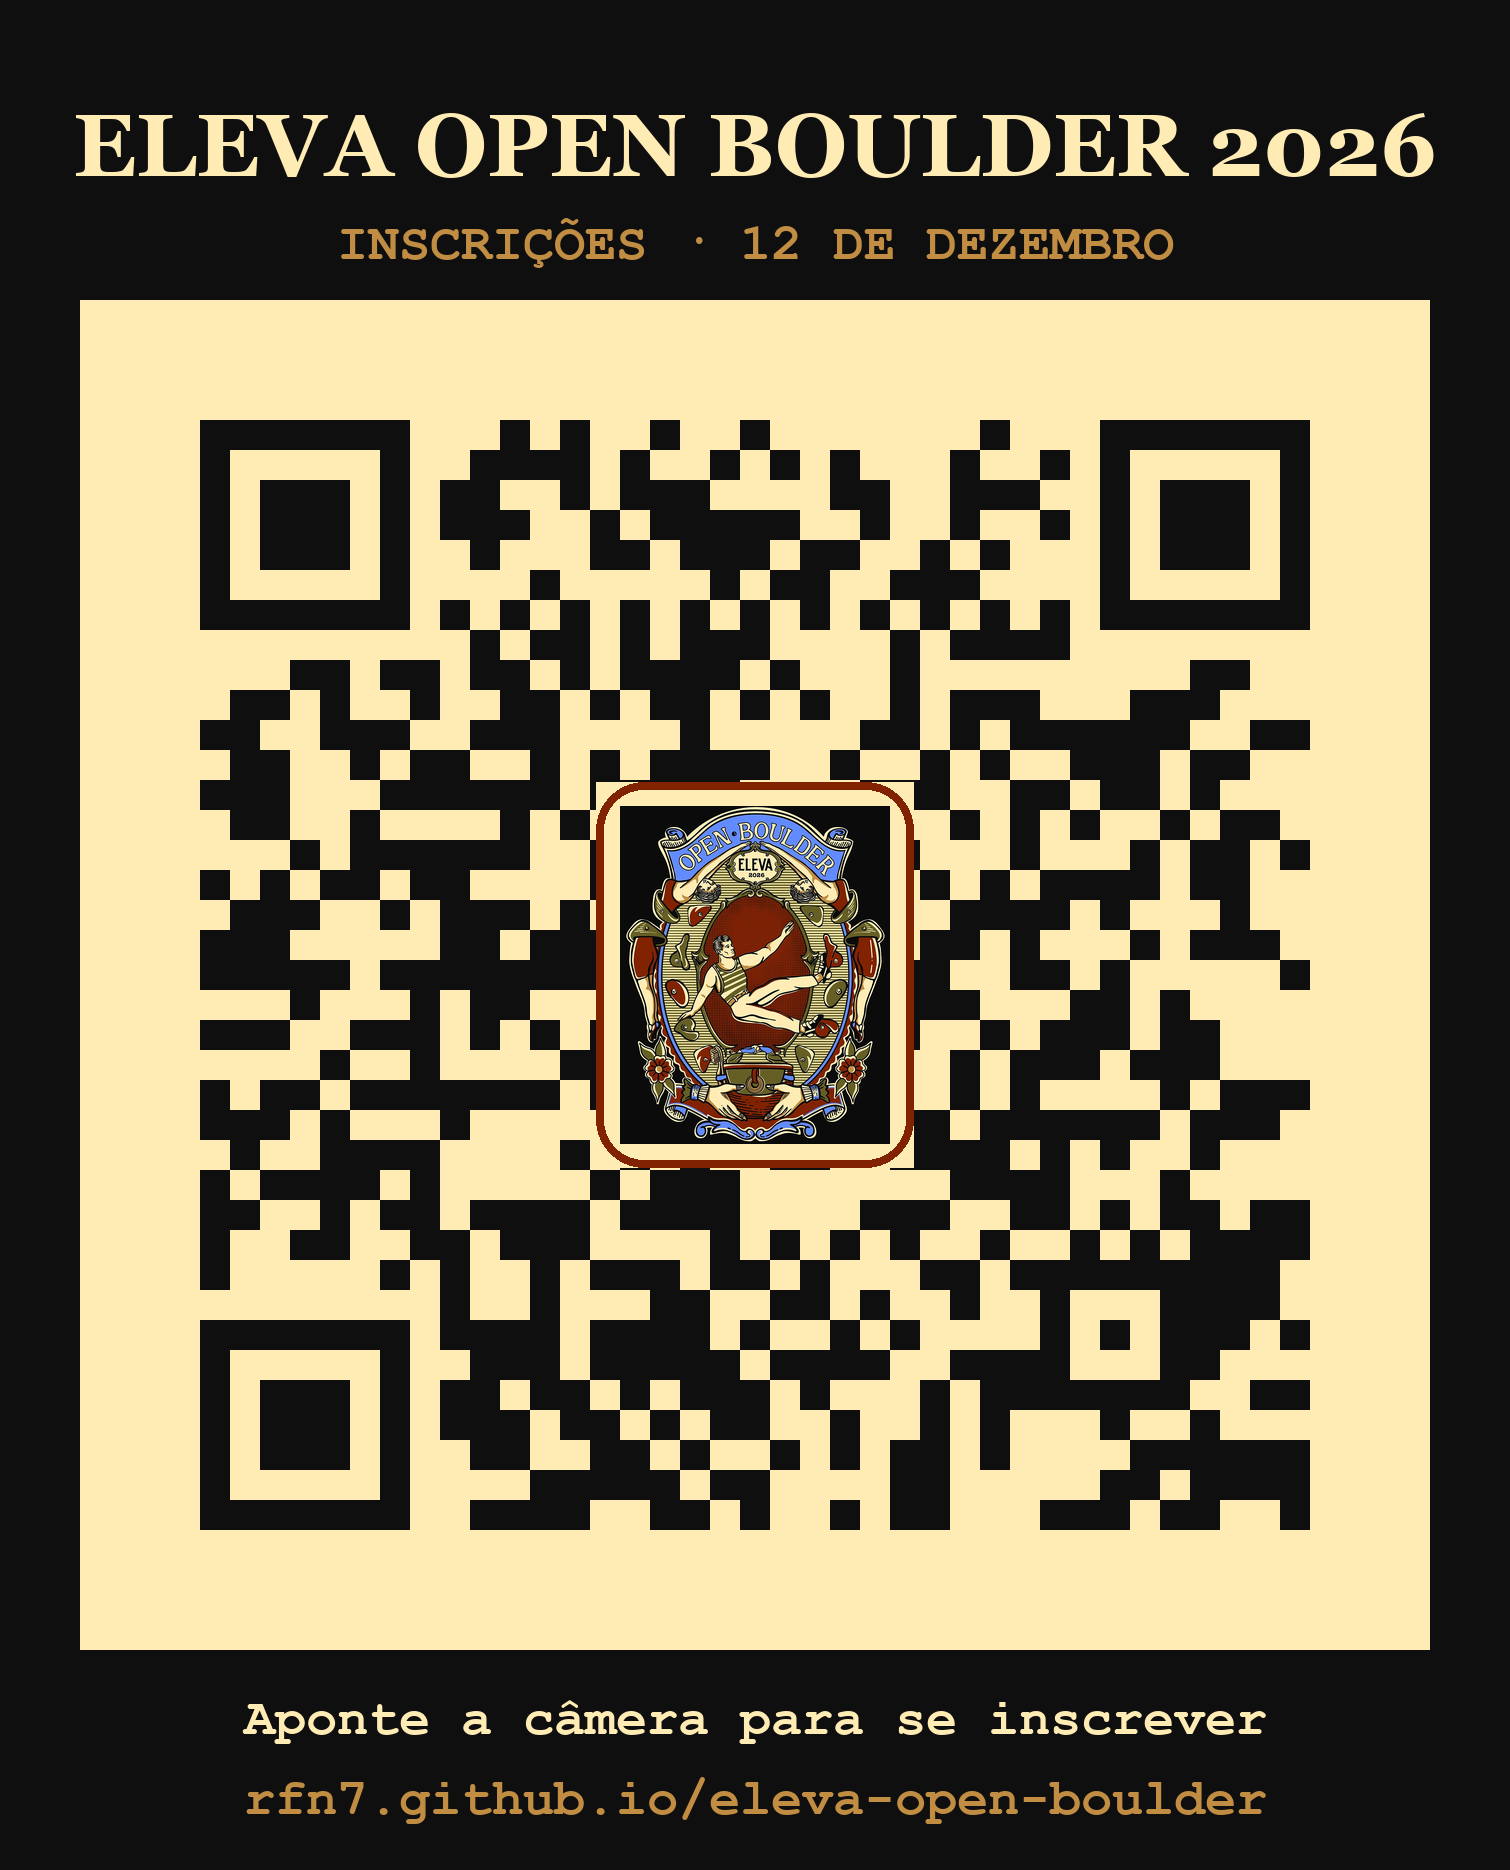
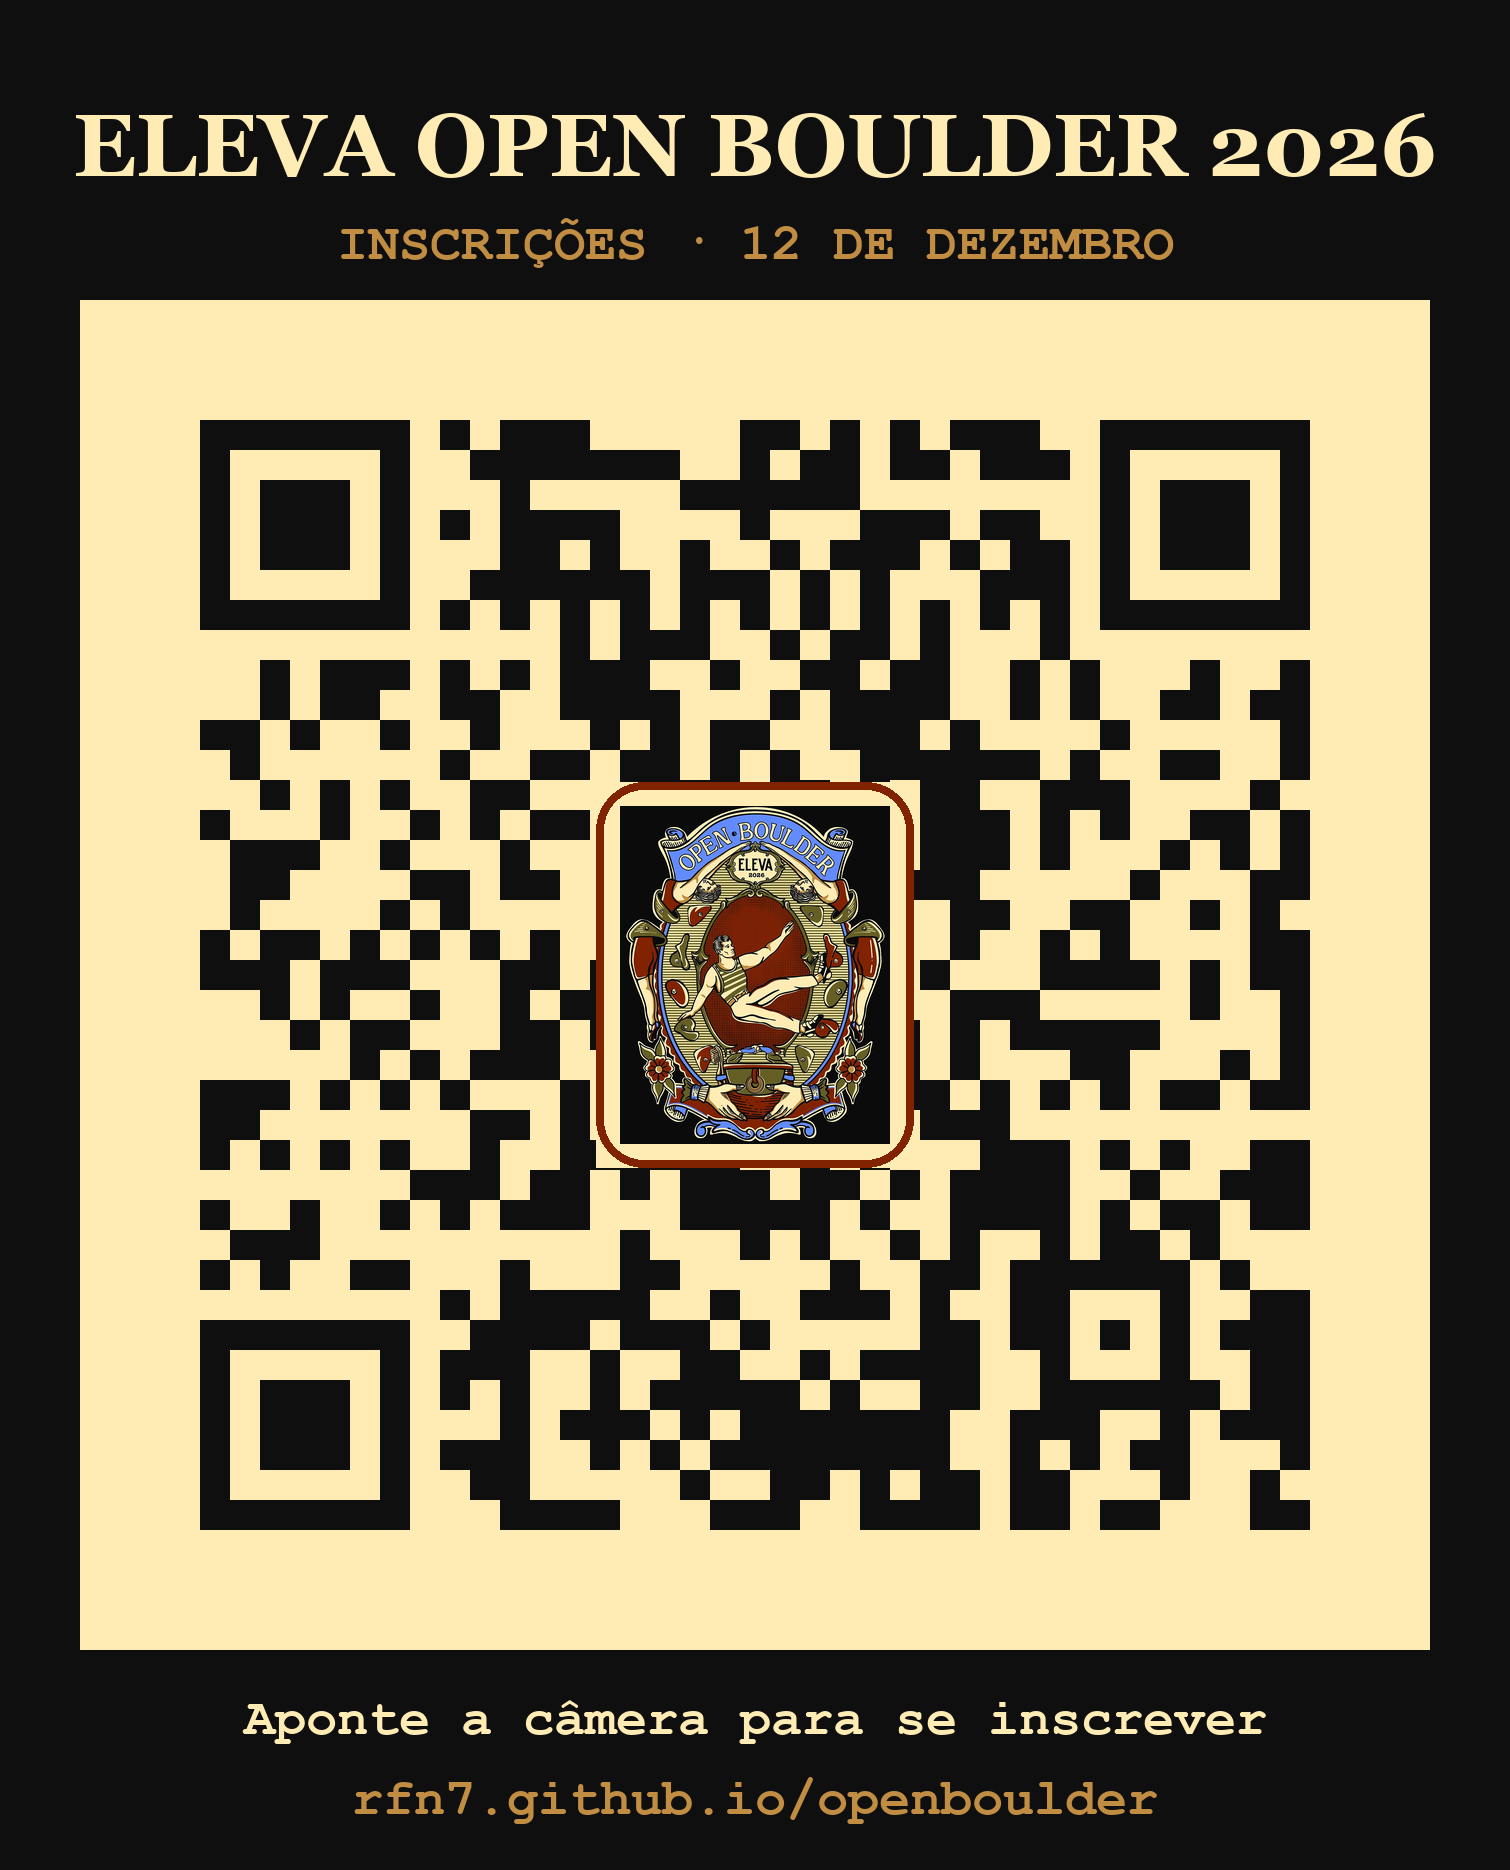
Novo endereço rfn7.github.io/openboulder e QR Code atualizado

Changed region(s): [[0.1245, 0.2171, 0.8715, 0.8374], [0.1868, 0.9305, 0.8404, 0.9925]]

diff --git a/index.html b/index.html
@@ -8,7 +8,7 @@
   <meta name="description" content="Eleva Open Boulder 2026 · Climb das Antigas. 12 de dezembro na Eleva Academia de Escalada, SOF Sul — Brasília. Inscrições, ingressos por lote e loja oficial.">
   <meta property="og:title" content="Eleva Open Boulder 2026 — Climb das Antigas">
   <meta property="og:description" content="12 de dezembro · Eleva Academia de Escalada, Brasília. Inscrições abertas.">
-  <meta property="og:image" content="https://rfn7.github.io/eleva-open-boulder/assets/inscricoes.jpg">
+  <meta property="og:image" content="https://rfn7.github.io/openboulder/assets/inscricoes.jpg">
   <meta property="og:type" content="website">
   <link rel="icon" href="assets/brasao.jpg">
   <link rel="preconnect" href="https://fonts.googleapis.com">

diff --git a/tools/build_preview.py b/tools/build_preview.py
@@ -84,7 +84,7 @@ html = re.sub(r'href="https://waze\.com/ul[^"]*"', 'href="https://waze.com"', ht
 html = html.replace("whatsapp: '5561991812748'", "whatsapp: ''")
 # prévia nunca grava no banco: sem url, salvar() devolve { preview: true }
 html = re.sub(r"supabase: \{ url: '[^']*', key: '[^']*' \}", "supabase: { url: '', key: '' }", html)
-html = html.replace('https://rfn7.github.io/eleva-open-boulder/', '')
+html = html.replace('https://rfn7.github.io/openboulder/', '')
 html = html.replace(
     "function openWa(text){ window.open(waLink(text), '_blank', 'noopener'); }",
     "function openWa(text){ $('#wa-msg').textContent=text; $('#wa-preview').classList.add('open'); }")

diff --git a/CLAUDE.md b/CLAUDE.md
@@ -93,13 +93,14 @@ Cada inscrição e cada pedido de camiseta avulsa é gravado no Supabase (ver ab
 - RLS: o site (chave publishable) **só insere**, sempre com status 'pendente'. Ler e confirmar só pelo painel do Supabase.
 - Bucket privado `comprovantes` (até 5 MB; jpg, png, webp, heic, pdf): o site só envia.
 - Existe um arquivo de teste de 14 bytes em `comprovantes/camiseta/00000000-...0001.pdf`; pode apagar pelo painel.
-- Código: https://github.com/RFN7/eleva-open-boulder (público). Site real: https://rfn7.github.io/eleva-open-boulder/ (GitHub Pages, atualiza a cada push na `main`).
+- Código: https://github.com/RFN7/openboulder (público). Site real: https://rfn7.github.io/openboulder/ (GitHub Pages, atualiza a cada push na `main`).
+- Endereço antigo (rfn7.github.io/eleva-open-boulder) redireciona para o novo pelo repositório RFN7/eleva-open-boulder, que só tem páginas de redirecionamento. Não apagar: o QR Code antigo usa esse endereço.
 
 ## Estoque de camisetas e painel (29/10/2026)
 - Tabela `eleva_estoque` (modelo × tamanho), valores da planilha do cliente: total 91. Croppeds têm P/M/G/GG; infantil é "8 a 10 anos".
 - Disponível = estoque − pedidos com camiseta não cancelados (view `eleva_estoque_status`; o site lê pela função `eleva_estoque_disponivel`).
 - Trigger `eleva_baixa_estoque` trava o item e recusa a venda quando esgota ("ESGOTADO: ..."). Cancelar devolve ao estoque; reativar um cancelado só se houver estoque.
-- Painel da organização: `admin.html` (https://rfn7.github.io/eleva-open-boulder/admin.html). Login por e-mail e senha do Supabase Auth; só entra quem está em `eleva_organizadores`.
+- Painel da organização: `admin.html` (https://rfn7.github.io/openboulder/admin.html). Login por e-mail e senha do Supabase Auth; só entra quem está em `eleva_organizadores`.
 - Criar acesso: inserir usuário em `auth.users` + `auth.identities` com senha temporária (crypt/bf) e o e-mail em `eleva_organizadores`. A pessoa troca a senha no botão "Trocar senha".
 - Relatório: aba Relatórios do painel baixa .xlsx por lote (Resumo, Inscrições, Camisetas avulsas). Envio automático por e-mail **pendente**: falta o e-mail de destino e um serviço de envio.
 - Dandara (28/10): Guará → SOF Sul, Infantil → Curumim (só categoria), Deli Deli na programação, lotes só por data, patrocinadores fora até ter todos.
